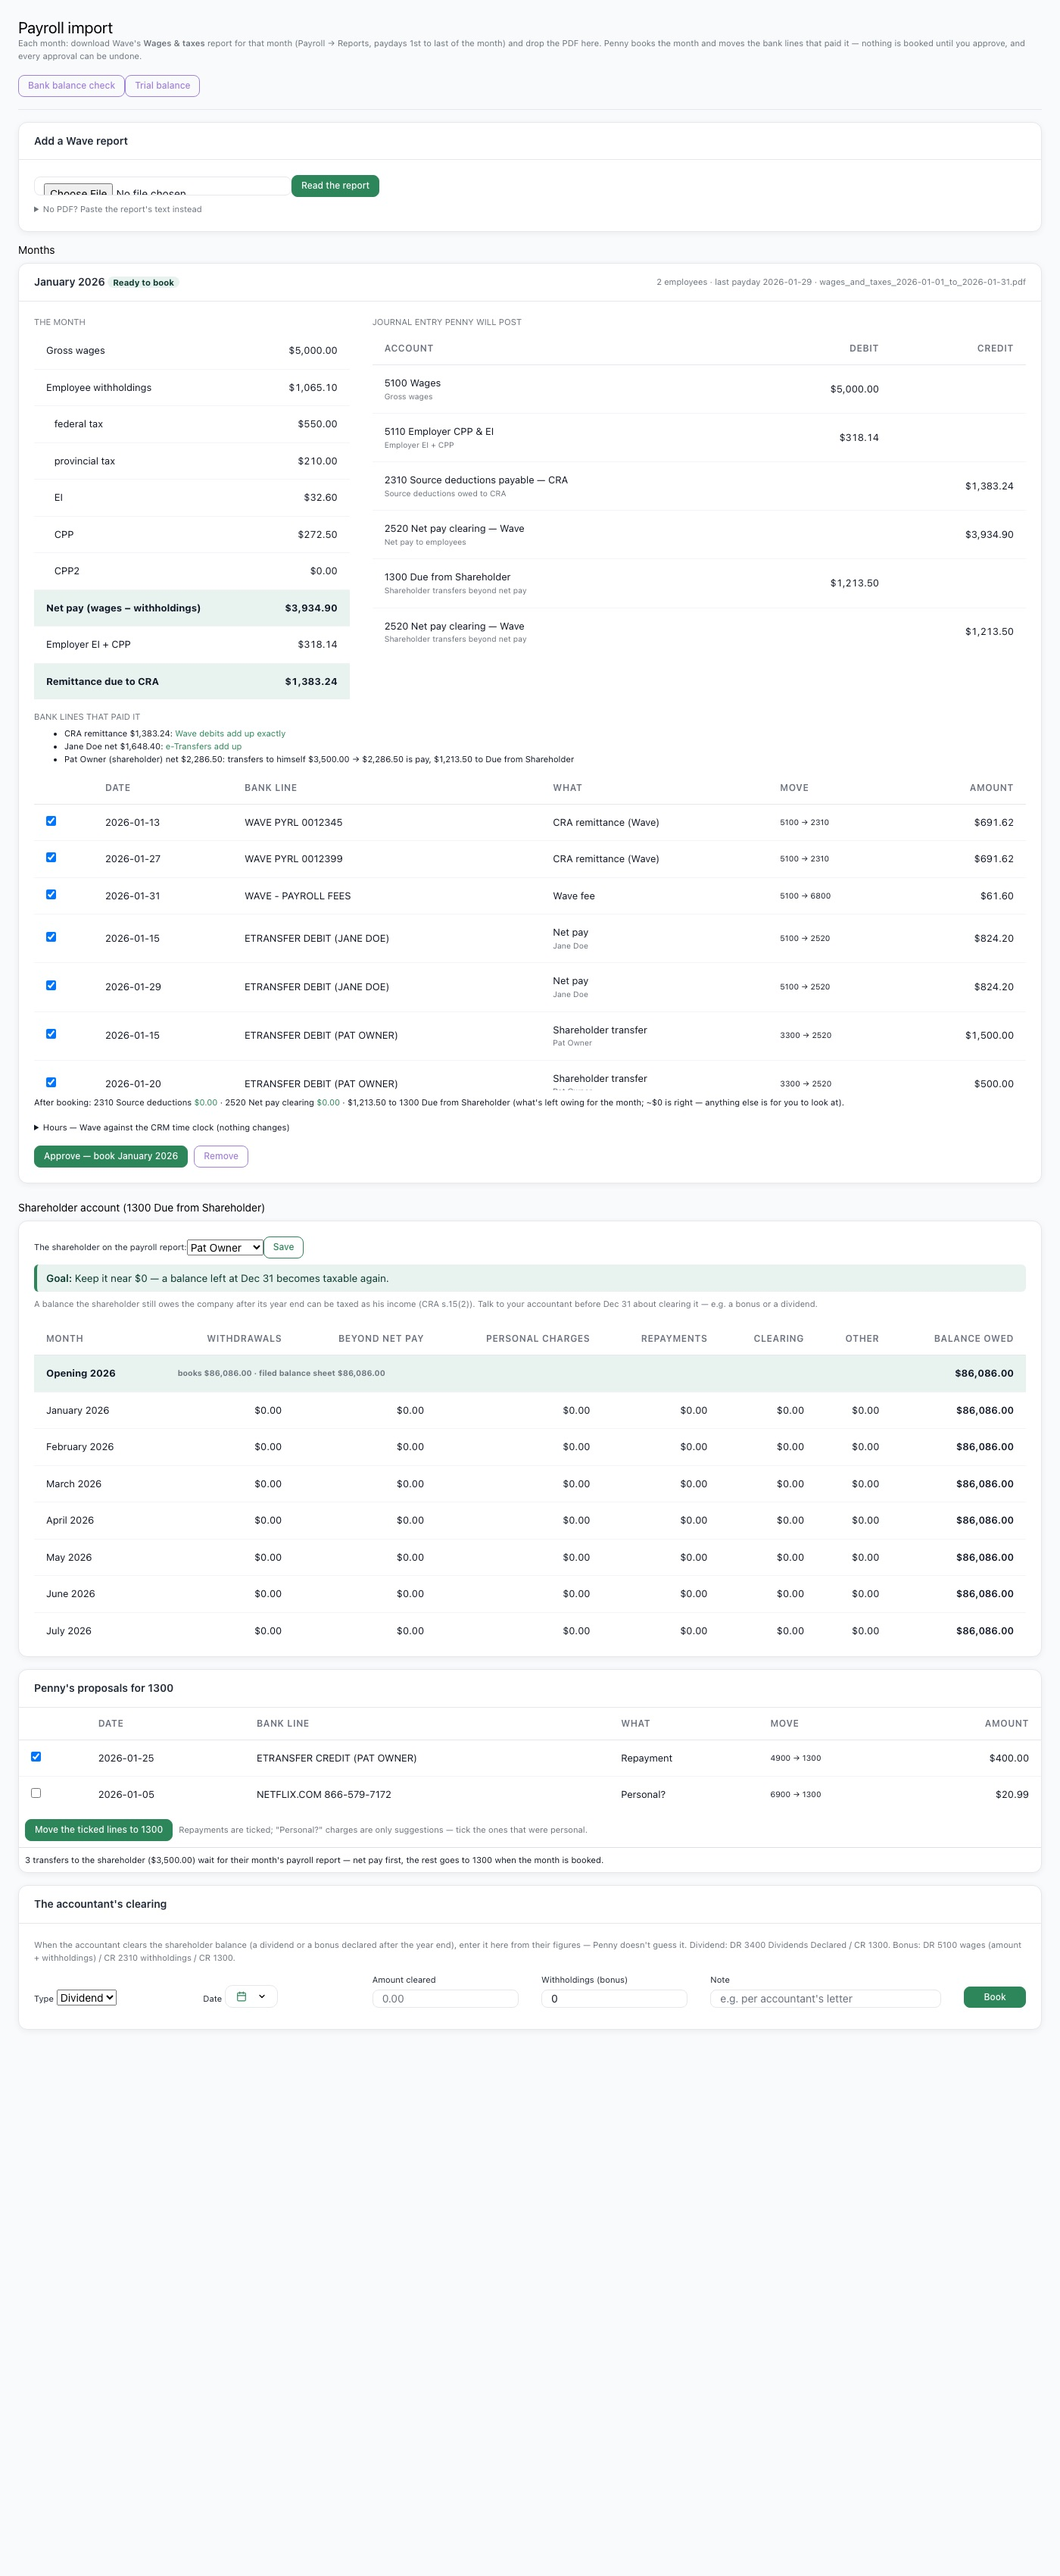
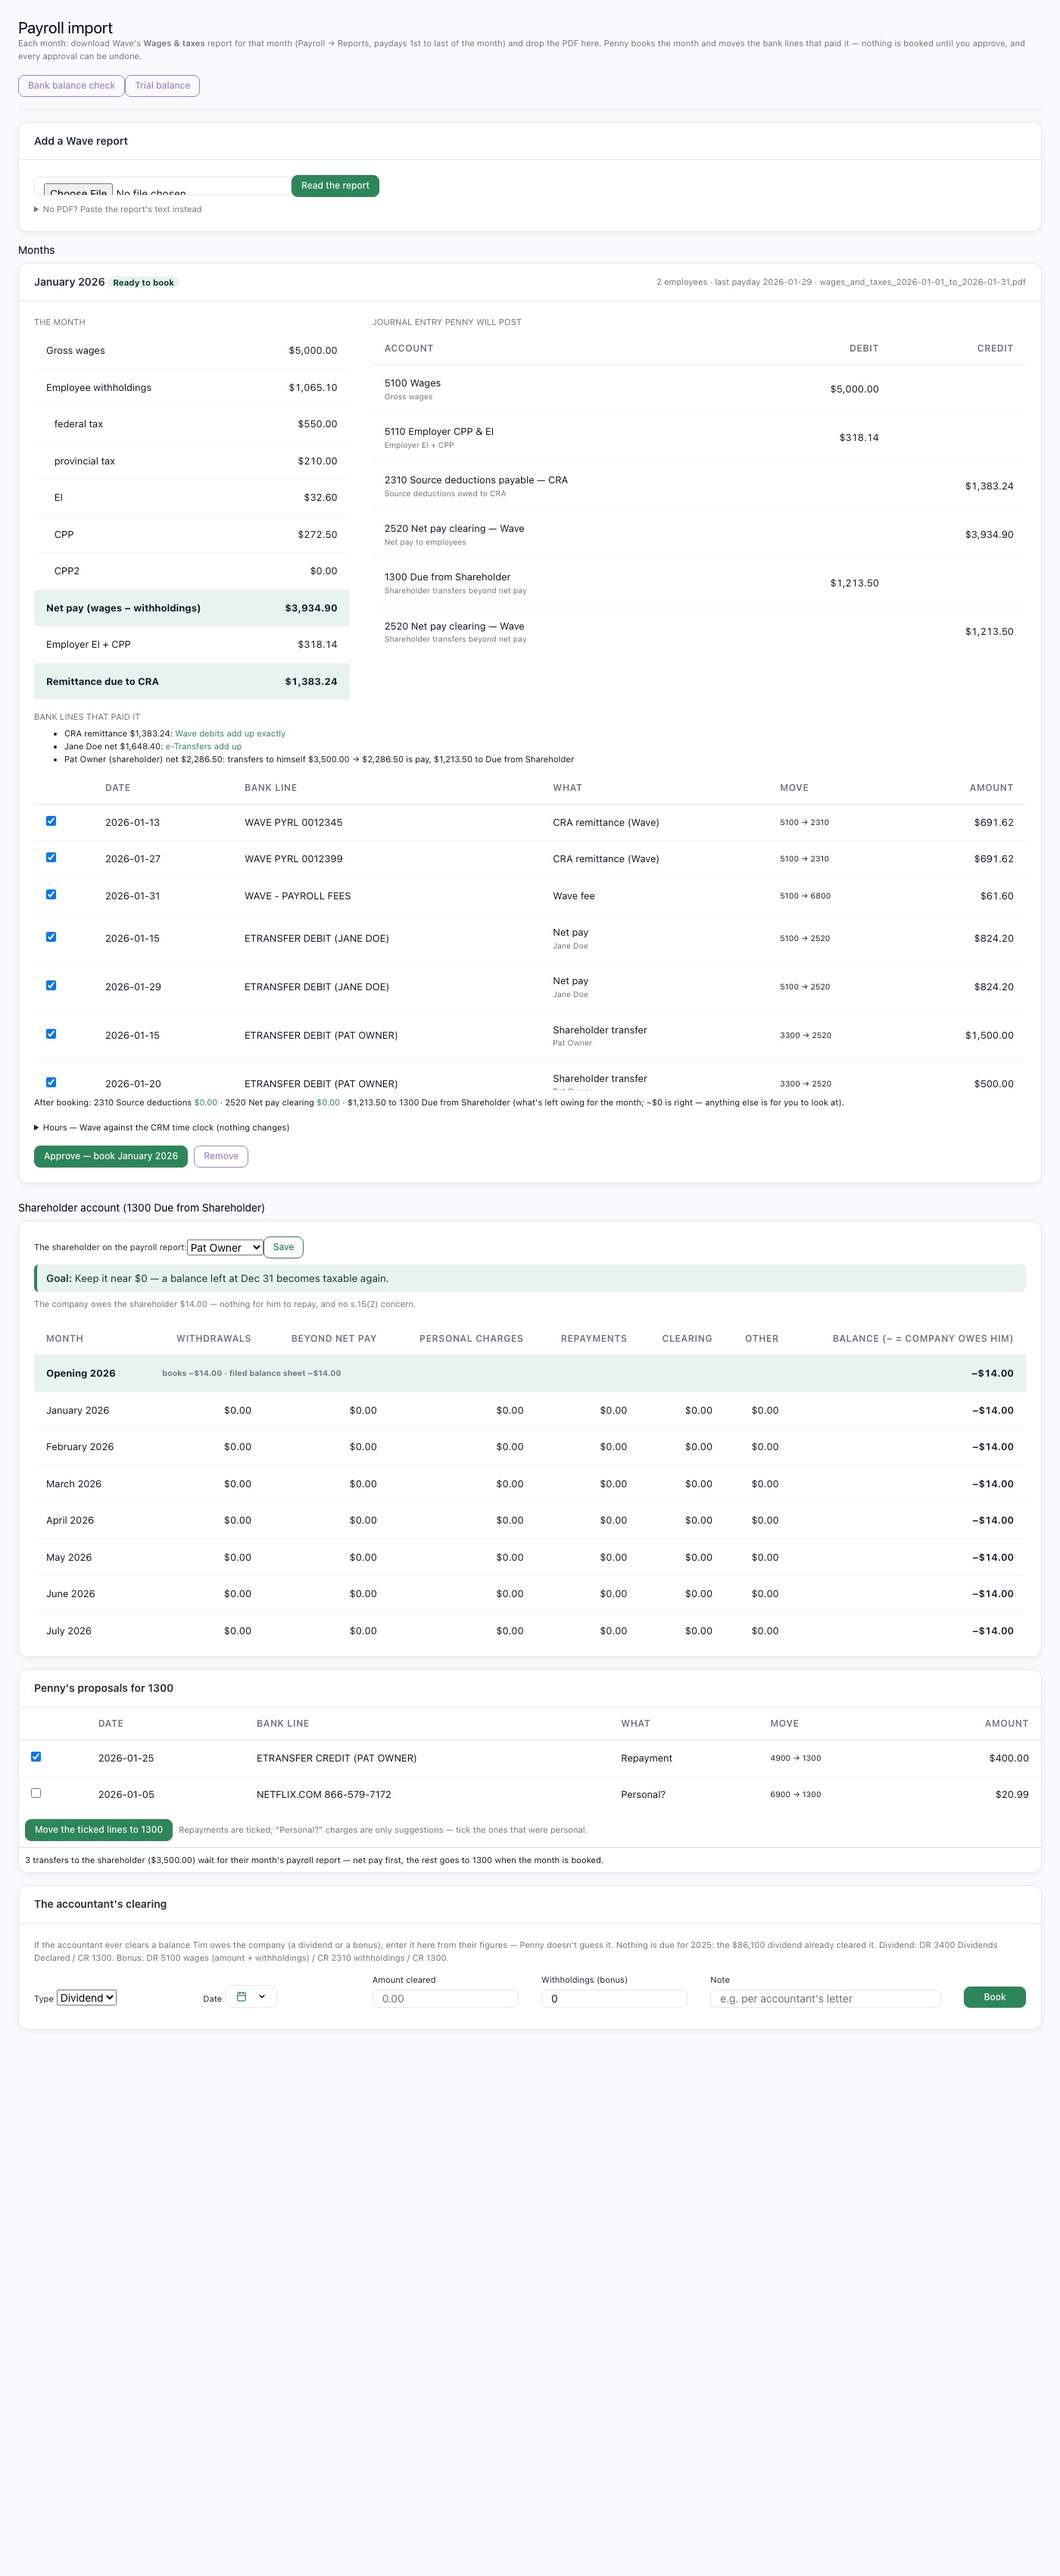
fix(accounting): shareholder opens at -$14 (company owes him) after the $86,100 FY2025 dividend
The accountant's updated FY2025 FS declared an $86,100 dividend (T5 2025) that
cleared the loan; fy_filed_balances 2025 due_from_shareholder = -14 (1242).
- filedOpening(): fy_filed_balances first, then ops_settings, default -14;
  migration 1255 seeds -14 (and corrects a seeded 86086).
- Opening includes the FY opening entry (dated Jan 1, source fy_opening).
- A credit balance = the company owes him: no s.15(2) warning, no brief item.
- Clearing form kept for future use; no prompt to clear $86,086.

diff --git a/public/crm/js/payroll-import.js b/public/crm/js/payroll-import.js
@@ -205,7 +205,7 @@
         h += '<p class="small text-muted">' + esc(s.year_end_note || '') + '</p>';
         if (L.opening_note) h += '<div class="alert alert-info small">' + esc(L.opening_note) + '</div>';
         h += '<div class="mw-pi-scroll"><table class="table table-sm mw-pi-table mb-0"><thead><tr><th>Month</th><th class="mw-pi-num">Withdrawals</th><th class="mw-pi-num">Beyond net pay</th>'
-            + '<th class="mw-pi-num">Personal charges</th><th class="mw-pi-num">Repayments</th><th class="mw-pi-num">Clearing</th><th class="mw-pi-num">Other</th><th class="mw-pi-num">Balance owed</th></tr></thead><tbody>'
+            + '<th class="mw-pi-num">Personal charges</th><th class="mw-pi-num">Repayments</th><th class="mw-pi-num">Clearing</th><th class="mw-pi-num">Other</th><th class="mw-pi-num">Balance <span class="text-muted">(− = company owes him)</span></th></tr></thead><tbody>'
             + '<tr class="mw-pi-strong"><td>Opening ' + esc(L.months.length ? L.months[0].month.slice(0, 4) : '') + '</td><td colspan="6" class="small text-muted">books ' + money(L.opening) + ' · filed balance sheet ' + money(L.filed_opening) + '</td><td class="mw-pi-num">' + money(L.opening) + '</td></tr>'
             + L.months.map(function (m) {
                 return '<tr><td>' + esc(ymLabel(m.month)) + '</td><td class="mw-pi-num">' + money(m.withdrawal) + '</td><td class="mw-pi-num">' + money(m.payroll) + '</td><td class="mw-pi-num">'

diff --git a/tests/Unit/Accounting/WavePayrollImportServiceTest.php b/tests/Unit/Accounting/WavePayrollImportServiceTest.php
@@ -251,18 +251,29 @@ final class WavePayrollImportServiceTest extends TestCase
 
     public function testRunningBalance(): void
     {
-        $r = ShareholderAccountService::running(86086.0, [
+        // Opens with the company owing him $14 (updated FY2025 FS, after the $86,100 dividend).
+        $r = ShareholderAccountService::running(-14.0, [
             ['month' => '2026-01', 'kind' => 'withdrawal', 'amount' => 500.0],
             ['month' => '2026-01', 'kind' => 'payroll', 'amount' => 1213.5],
             ['month' => '2026-02', 'kind' => 'repayment', 'amount' => -400.0],
-            ['month' => '2026-03', 'kind' => 'clearing', 'amount' => -86086.0],
+            ['month' => '2026-03', 'kind' => 'clearing', 'amount' => -1299.5],
             ['month' => '2026-03', 'kind' => 'personal', 'amount' => 20.99],
         ], 2026);
-        $this->assertSame(87799.5, $r['months'][0]['balance']);
-        $this->assertSame(87399.5, $r['months'][1]['balance']);
-        $this->assertSame(1334.49, $r['months'][2]['balance']);
-        $this->assertSame(1334.49, $r['closing']);
+        $this->assertSame(-14.0, $r['opening']);
+        $this->assertSame(1699.5, $r['months'][0]['balance']);
+        $this->assertSame(1299.5, $r['months'][1]['balance']);
+        $this->assertSame(20.99, $r['months'][2]['balance']);
+        $this->assertSame(20.99, $r['closing']);
         $this->assertCount(12, $r['months']);
+    }
+
+    public function testACreditBalanceMeansTheCompanyOwesHimAndNoWarning(): void
+    {
+        $this->assertStringContainsString('company owes the shareholder $14.00', ShareholderAccountService::yearEndNote(-14));
+        $this->assertStringNotContainsString('15(2)', str_replace('no s.15(2) concern', '', ShareholderAccountService::yearEndNote(-14)));
+        $this->assertStringContainsString('s.15(2)', ShareholderAccountService::yearEndNote(1200));
+        $this->assertSame([], ShareholderAccountService::briefItems(-14, '2026-12-01'), 'owed TO him → nothing to clear');
+        $this->assertSame(-14.0, ShareholderAccountService::FILED_OPENING_DEFAULT);
     }
 
     // ── DB: import, approve, undo, locked, shareholder ──────────────────────
@@ -330,9 +341,18 @@ final class WavePayrollImportServiceTest extends TestCase
         $db = $this->db();
         $ledger = $this->ledger($db);
         $sh = new ShareholderAccountService($db, $ledger);
-        // Opening: the filed $86,086 (the FY2026 opening entry).
-        $db->exec("INSERT INTO journal_entries (id, entry_date, memo, source_type, status) VALUES (900, '2025-12-31', 'opening', 'opening_balance', 'posted')");
-        $db->exec("INSERT INTO journal_lines (entry_id, account_id, debit, credit) VALUES (900, " . $this->acct($db, '1300') . ", 86086, 0), (900, " . $this->acct($db, '3900') . ", 0, 86086)");
+        // Opening: an old 2025 balance of $86,086, then the FY2026 opening entry (dated Jan 1, source
+        // 'fy_opening') takes it to the filed figure — the company owes him $14.
+        $db->exec("INSERT INTO journal_entries (id, entry_date, memo, source_type, status) VALUES (899, '2025-06-30', 'old', 'manual', 'posted')");
+        $db->exec("INSERT INTO journal_lines (entry_id, account_id, debit, credit) VALUES (899, " . $this->acct($db, '1300') . ", 86086, 0), (899, " . $this->acct($db, '3900') . ", 0, 86086)");
+        $db->exec("INSERT INTO journal_entries (id, entry_date, memo, source_type, source_id, status, is_adjusting) VALUES (900, '2026-01-01', 'FY2026 opening', 'fy_opening', 2025, 'posted', 1)");
+        $db->exec("INSERT INTO journal_lines (entry_id, account_id, debit, credit) VALUES (900, " . $this->acct($db, '1300') . ", 0, 86100), (900, " . $this->acct($db, '3900') . ", 86100, 0)");
+        // The filed figure comes from fy_filed_balances when the table is there (over ops_settings).
+        $this->assertSame(-14.0, $sh->filedOpening());
+        $db->exec("CREATE TABLE fy_filed_balances (id INTEGER PRIMARY KEY, fiscal_year INTEGER, line TEXT, amount REAL)");
+        $db->exec("INSERT INTO fy_filed_balances (fiscal_year, line, amount) VALUES (2025, 'due_from_shareholder', -14.00), (2024, 'due_from_shareholder', 71066)");
+        $db->exec("UPDATE ops_settings SET setting_value = '99' WHERE setting_key = 'shareholder_filed_opening'");
+        $this->assertSame(-14.0, $sh->filedOpening());
 
         $p = $sh->proposals();
         $this->assertSame([10], array_column($p['repayments'], 'id'));
@@ -344,24 +364,26 @@ final class WavePayrollImportServiceTest extends TestCase
         $this->assertTrue($a['ok'], $a['message']);
         $this->assertSame(2, $a['moved']);
         $L = $sh->ledger();
-        $this->assertSame(86086.0, $L['opening']);
-        $this->assertNull($L['opening_note']);
+        $this->assertSame(-14.0, $L['opening']);
+        $this->assertNull($L['opening_note'], 'books agree with the filed -$14');
         $this->assertSame(-400.0, $L['months'][0]['repayment']);
         $this->assertSame(20.99, $L['months'][0]['personal']);
-        $this->assertSame(85706.99, $L['months'][0]['balance']);
+        $this->assertSame(-393.01, $L['months'][0]['balance']);
+        $this->assertStringContainsString('company owes the shareholder $393.01', $sh->report()['year_end_note']);
+        $this->assertSame([], $sh->brief('2026-12-01'));
 
         $this->assertFalse($sh->addClearing('dividend', '2026-03-31', 1000, 50, '', 1)['ok'], 'no withholdings on a dividend');
-        $c = $sh->addClearing('dividend', '2026-03-31', 85706.99, 0, 'per accountant', 1);
+        $c = $sh->addClearing('dividend', '2026-03-31', 600, 0, 'per accountant', 1);
         $this->assertTrue($c['ok'], $c['message']);
         $L = $sh->ledger();
-        $this->assertSame(-85706.99, $L['months'][2]['clearing']);
-        $this->assertSame(0.0, $L['closing']);
-        $this->assertSame(85706.99, $this->net($db)[$this->acct($db, '3400')]);
+        $this->assertSame(-600.0, $L['months'][2]['clearing']);
+        $this->assertSame(-993.01, $L['closing']);
+        $this->assertSame(600.0, $this->net($db)[$this->acct($db, '3400')]);
 
         $this->assertTrue($sh->undoClearing($c['id'], 1)['ok']);
-        $this->assertSame(85706.99, $sh->ledger()['closing']);
+        $this->assertSame(-393.01, $sh->ledger()['closing']);
         $this->assertTrue($sh->undoBatch($a['batch_id'], 1)['ok']);
-        $this->assertSame(86086.0, $sh->ledger()['closing']);
+        $this->assertSame(-14.0, $sh->ledger()['closing']);
         $this->assertSame('4900', $this->codeOf($db, 10));
 
         $b = $sh->addClearing('bonus', '2026-03-31', 1000, 250, '', 1);
@@ -437,7 +459,7 @@ final class WavePayrollImportServiceTest extends TestCase
         $db->exec("CREATE TABLE shareholder_clearings (id INTEGER PRIMARY KEY AUTOINCREMENT, clearing_type TEXT, entry_date TEXT, amount REAL, withholdings REAL,
                    note TEXT, journal_entry_id INTEGER, reversal_entry_id INTEGER, created_by INTEGER, created_at TEXT, undone_by INTEGER, undone_at TEXT)");
         $db->exec("CREATE TABLE ops_settings (id INTEGER PRIMARY KEY AUTOINCREMENT, setting_key TEXT UNIQUE, setting_value TEXT, description TEXT, updated_by INTEGER)");
-        $db->exec("INSERT INTO ops_settings (setting_key, setting_value) VALUES ('payroll_shareholder_name', 'Pat Owner'), ('shareholder_filed_opening', '86086.00')");
+        $db->exec("INSERT INTO ops_settings (setting_key, setting_value) VALUES ('payroll_shareholder_name', 'Pat Owner'), ('shareholder_filed_opening', '-14.00')");
         $db->exec("CREATE TABLE users (id INTEGER PRIMARY KEY, full_name TEXT)");
         $db->exec("INSERT INTO users (id, full_name) VALUES (1, 'Pat Owner'), (2, 'Jane Doe')");
         $db->exec("CREATE TABLE time_clock_entries (id INTEGER PRIMARY KEY AUTOINCREMENT, user_id INTEGER, clock_in TEXT, clock_out TEXT, total_minutes INTEGER, status TEXT)");

diff --git a/app/Modules/Accounting/Services/ShareholderAccountService.php b/app/Modules/Accounting/Services/ShareholderAccountService.php
@@ -8,8 +8,11 @@
  *     month whose payroll isn't booked they wait ("waiting for the payroll report").
  *   - money IN from him → 1300 (a repayment; the deposit credits 1300).
  *   - personal charges the business paid (gym, streaming, …) → 1300, proposals only, unticked.
- *   - the accountant's clearing of the opening balance (filed FS: $86,086 at 2025-12-31) —
- *     ONE entry from Tim's / the accountant's figures, never guessed:
+ *   - the filed opening: the accountant's updated FY2025 statements declared an $86,100
+ *     dividend (T5 2025) that cleared the loan, so at 2025-12-31 the company owes Tim $14
+ *     (fy_filed_balances 2025 'due_from_shareholder' = -14, migration 1242). A negative
+ *     balance = the company owes him: no s.15(2) concern, no brief item.
+ *   - a future clearing (the form) — ONE entry from Tim's / the accountant's figures, never guessed:
  *       dividend: DR 3400 Dividends Declared / CR 1300
  *       bonus:    DR 5100 wages (amount + withholdings) / CR 2310 withholdings / CR 1300 amount
  *   - the running balance by month, from the journal (1300 lines), with the year-end flag:
@@ -28,7 +31,8 @@ class ShareholderAccountService
     public const ACC = LedgerService::ACC_DUE_FROM_SH;   // 1300
     public const ACC_DIVIDENDS = '3400';
     public const YEAR = WavePayrollImportService::BOOK_YEAR;
-    public const FILED_OPENING_DEFAULT = 86086.00;
+    /** Updated FY2025 FS: the company owes the shareholder $14 at 2025-12-31 (after the $86,100 dividend). */
+    public const FILED_OPENING_DEFAULT = -14.00;
     /** Business-paid charges that are usually personal — a proposal, never automatic. */
     public const PERSONAL_RE = '/\b(NETFLIX|SPOTIFY|DISNEY ?PLUS|DISNEYPLUS|CRAVE|PRIME ?VIDEO|APPLE\.COM\/BILL|GOODLIFE|ANYTIME FITNESS|FITNESS|GYM|YOGA|CINEPLEX|LULULEMON|SEPHORA|STEAM ?GAMES|PLAYSTATION|XBOX|NINTENDO)\b/i';
     public const BRIEF_FROM_MONTH = 11;
@@ -55,8 +59,18 @@ class ShareholderAccountService
         return ['ok' => true, 'message' => $name . ' is the shareholder.'];
     }
 
+    /**
+     * The filed balance at the start of the year (+ he owes the company, − it owes him):
+     * fy_filed_balances (migration 1238/1242) when present, else ops_settings, else the default.
+     */
     public function filedOpening(): float
     {
+        try {
+            $s = $this->db->prepare("SELECT amount FROM fy_filed_balances WHERE fiscal_year = ? AND line = 'due_from_shareholder'");
+            $s->execute([self::YEAR - 1]);
+            $a = $s->fetchColumn();
+            if ($a !== false && $a !== null) return round((float)$a, 2);
+        } catch (Throwable $e) { /* no table yet */ }
         $v = $this->setting('shareholder_filed_opening');
         return $v === null || $v === '' ? self::FILED_OPENING_DEFAULT : round((float)$v, 2);
     }
@@ -144,12 +158,15 @@ class ShareholderAccountService
         $opening = 0.0;
         $rows = [];
         if ($acct) {
+            // Opening = everything before the year + the FY opening entry (Fy2026OpeningService: dated
+            // Jan 1, source 'fy_opening', moves the balance to the filed figure) — while it stands.
+            $live = "e.reversed_by_entry_id IS NULL AND NOT EXISTS (SELECT 1 FROM journal_entries o WHERE o.reversed_by_entry_id = e.id)";
             $s = $this->db->prepare("SELECT COALESCE(SUM(l.debit - l.credit), 0) FROM journal_lines l JOIN journal_entries e ON e.id = l.entry_id
-                                     WHERE l.account_id = ? AND e.entry_date < ?");
-            $s->execute([$acct, $start]);
+                                     WHERE l.account_id = ? AND (e.entry_date < ? OR (e.source_type = 'fy_opening' AND e.entry_date = ? AND {$live}))");
+            $s->execute([$acct, $start, $start]);
             $opening = round((float)$s->fetchColumn(), 2);
             $s = $this->db->prepare("SELECT e.entry_date, e.source_type, e.source_id, l.debit, l.credit FROM journal_lines l JOIN journal_entries e ON e.id = l.entry_id
-                                     WHERE l.account_id = ? AND e.entry_date BETWEEN ? AND ?
+                                     WHERE l.account_id = ? AND e.entry_date BETWEEN ? AND ? AND e.source_type <> 'fy_opening'
                                        AND e.reversed_by_entry_id IS NULL
                                        AND NOT EXISTS (SELECT 1 FROM journal_entries o WHERE o.reversed_by_entry_id = e.id)");
             $s->execute([$acct, $start, self::YEAR . '-12-31']);
@@ -308,7 +325,17 @@ class ShareholderAccountService
         $ledger = $this->ledger();
         return ['ledger' => $ledger, 'proposals' => $this->proposals(), 'batches' => $this->batches(), 'clearings' => $this->clearings(),
                 'goal' => 'Keep it near $0 — a balance left at Dec 31 becomes taxable again.',
-                'year_end_note' => 'A balance the shareholder still owes the company after its year end can be taxed as his income (CRA s.15(2)). Talk to your accountant before Dec 31 about clearing it — e.g. a bonus or a dividend.'];
+                'year_end_note' => self::yearEndNote((float)$ledger['closing'])];
+    }
+
+    /** Pure: what the page says about the balance (no s.15(2) warning when the company owes him). */
+    public static function yearEndNote(float $balance): string
+    {
+        if ($balance < -0.005) {
+            return 'The company owes the shareholder $' . number_format(-$balance, 2) . ' — nothing for him to repay, and no s.15(2) concern.';
+        }
+        if ($balance < 0.005) return 'The account is at $0 — nothing owed either way.';
+        return 'A balance the shareholder still owes the company after its year end can be taxed as his income (CRA s.15(2)). Talk to your accountant before Dec 31 about clearing it — e.g. a bonus or a dividend.';
     }
 
     public function brief(string $today): array

diff --git a/public/crm/accounting/payroll-import.php b/public/crm/accounting/payroll-import.php
@@ -57,7 +57,7 @@ $isAdmin    = isAdmin();
     <div class="card mw-card mb-3">
         <div class="card-header"><h5 class="card-title mb-0">The accountant's clearing</h5></div>
         <div class="card-body">
-            <p class="small text-muted mb-2">When the accountant clears the shareholder balance (a dividend or a bonus declared after the year end), enter it here from their figures — Penny doesn't guess it. Dividend: DR 3400 Dividends Declared / CR 1300. Bonus: DR 5100 wages (amount + withholdings) / CR 2310 withholdings / CR 1300.</p>
+            <p class="small text-muted mb-2">If the accountant ever clears a balance the shareholder owes the company (a dividend or a bonus), enter it here from their figures — Penny doesn't guess it. Nothing is due for 2025: the $86,100 dividend already cleared it. Dividend: DR 3400 Dividends Declared / CR 1300. Bonus: DR 5100 wages (amount + withholdings) / CR 2310 withholdings / CR 1300.</p>
             <form id="pi-clearing" class="row g-2 align-items-end">
                 <div class="col-sm-6 col-lg-2">
                     <label class="form-label small mb-1" for="pi-cl-type">Type</label>
